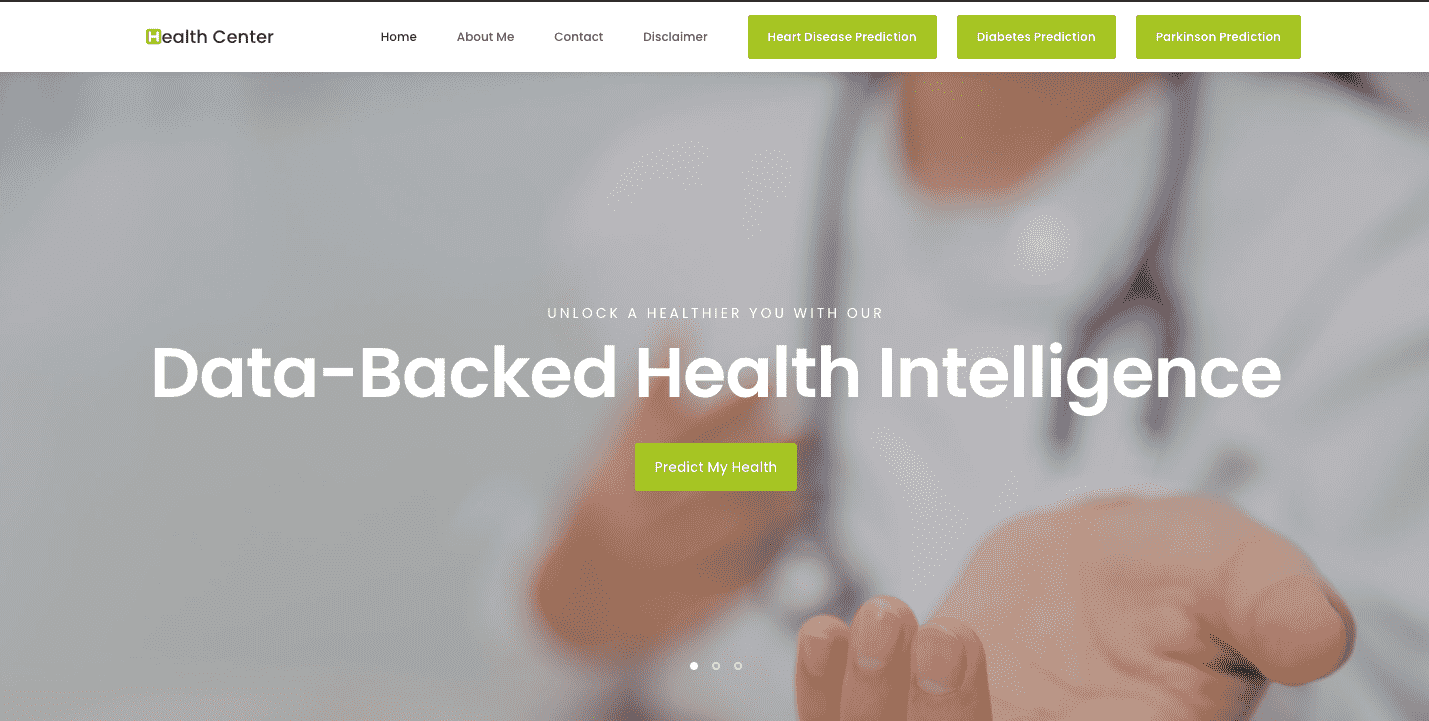
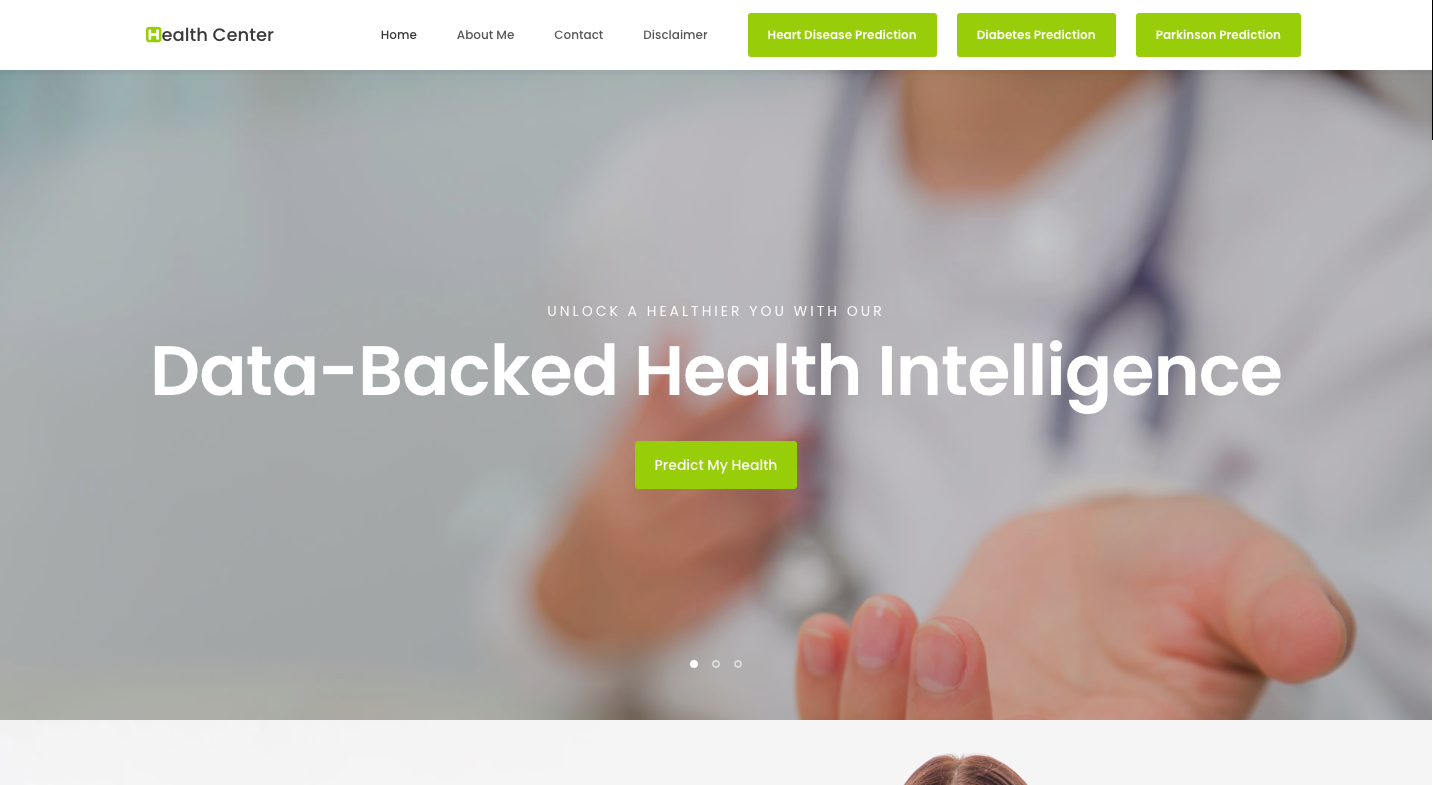
projects-updated

diff --git a/projects.html b/projects.html
@@ -4,24 +4,23 @@
     <meta charset="utf-8">
     <meta name="viewport" content="width=device-width, initial-scale=1">
     <title>W.Hamra · Projects</title>
-
     <link href="https://fonts.googleapis.com/css?family=Open+Sans:300,400" rel="stylesheet">
-    <link rel="stylesheet" href="{% static 'css/styles-merged.css'%}">
-    <link rel="stylesheet" href="{% static 'css/style.min.css' %}">
-    <link rel="stylesheet" href="{% static 'css/custom.css' %}">
+    <link rel="stylesheet" href="static/css/styles-merged.css">
+    <link rel="stylesheet" href="static/css/style.min.css">
+    <link rel="stylesheet" href="static/css/custom.css">
 
     <!--[if lt IE 9]>
-    <script src="{% static 'js/vendor/html5shiv.min.js' %}"></script>
-    <script src="{% static 'js/vendor/respond.min.js' %}"></script>
+    <script src="static/js/vendor/html5shiv.min.js"></script>
+    <script src="static/js/vendor/respond.min.js"></script>
     <![endif]-->
 
     <!--favicon section-->
 
-    <link rel="icon" href="{% static 'img/favicon/favicon.ico' %}" type="image/x-icon">
-    <link rel="apple-touch-icon" sizes="180x180" href="{% static 'img/favicon/apple-touch-icon.png' %}">
-    <link rel="icon" type="image/png" sizes="32x32" href="{% static 'img/favicon/favicon-32x32.png' %}">
-    <link rel="icon" type="image/png" sizes="16x16" href="{% static 'img/favicon/favicon-16x16.png' %}">
-    <link rel="manifest" href="{% static 'img/favicon/site.webmanifest' %}">
+    <link rel="icon" href="static/img/favicon/favicon.ico" type="image/x-icon">
+    <link rel="apple-touch-icon" sizes="180x180" href="static/img/favicon/apple-touch-icon.png">
+    <link rel="icon" type="image/png" sizes="32x32" href="static/img/favicon/favicon-32x32.png">
+    <link rel="icon" type="image/png" sizes="16x16" href="static/img/favicon/favicon-16x16.png">
+    <link rel="manifest" href="static/img/favicon/site.webmanifest">
 
 
 </head>
@@ -33,25 +32,30 @@
 
 <header role="banner" class="probootstrap-header">
     <div class="container">
-        <a href="{% url 'index' %}" class="probootstrap-logo">W<span>.Hamra</span></a>
+        <a href="index.html" class="probootstrap-logo">W<span>.Hamra</span></a>
 
         <a href="#" class="probootstrap-burger-menu visible-xs"><i>Menu</i></a>
         <div class="mobile-menu-overlay"></div>
 
         <nav role="navigation" class="probootstrap-nav hidden-xs">
             <ul class="probootstrap-main-nav">
-                <li><a href="{% url 'index' %}">Home</a></li>
-                <li class="active"><a href="{% url 'projects' %}">Projects</a></li>
-                <li><a href="{% url 'services' %}">Services</a></li>
-                <li><a href="{% url 'about' %}">About</a></li>
-                <li><a href="{% url 'contact' %}">Contact</a></li>
+                <li><a href="index.html">Home</a></li>
+                <li class="active"><a href="projects.html">Projects</a></li>
+                <li><a href="services.html">Services</a></li>
+                <li><a href="about.html">About</a></li>
+                <li><a href="contact.html">Contact</a></li>
             </ul>
             <ul class="probootstrap-right-nav hidden-xs">
-                <li><a href="https://www.linkedin.com/in/medwassimhamra/"><i class="icon-linkedin"></i></a></li>
+                <li><a href="https://www.linkedin.com/in/medwassimhamra/" target="_blank"
+                       rel="noopener noreferrer"><i class="icon-linkedin"></i></a></li>
                 <li>
-                    <a href="https://mail.google.com/mail/u/1/#inbox?compose=CllgCJlLWMTNrnlgJRQcBgjLcHFkHPRxLwsnhRkrCNgtVXfsJZhPpWqTpMmjfNfXqNMrLRCbGSV"><i
+                    <a href="https://mail.google.com/mail/u/1/#inbox?compose=CllgCJlLWMTNrnlgJRQcBgjLcHFkHPRxLwsnhRkrCNgtVXfsJZhPpWqTpMmjfNfXqNMrLRCbGSV"
+                       target="_blank"
+                       rel="noopener noreferrer"><i
                             class="icon-mail"></i></a></li>
-                <li><a href="https://github.com/Wassim-Hamra?tab=repositories"><i class="icon-github2"></i></a></li>
+                <li><a href="https://github.com/Wassim-Hamra?tab=repositories" target="_blank"
+                       rel="noopener noreferrer"><i class="icon-github2"></i></a>
+                </li>
             </ul>
             <div class="extra-text visible-xs">
                 <a href="#" class="probootstrap-burger-menu"><i>Menu</i></a>
@@ -59,11 +63,15 @@
                 <p>2094, Mustapha Khaznadar Street, Ariana, Tunisia</p>
                 <h5>Connect</h5>
                 <ul class="social-buttons">
-                    <li><a href="https://www.linkedin.com/in/medwassimhamra/"><i class="icon-linkedin"></i></a></li>
+                    <li><a href="https://www.linkedin.com/in/medwassimhamra/" target="_blank"
+                           rel="noopener noreferrer"><i class="icon-linkedin"></i></a></li>
                     <li>
-                        <a href="https://mail.google.com/mail/u/1/#inbox?compose=CllgCJlLWMTNrnlgJRQcBgjLcHFkHPRxLwsnhRkrCNgtVXfsJZhPpWqTpMmjfNfXqNMrLRCbGSV"><i
+                        <a href="https://mail.google.com/mail/u/1/#inbox?compose=CllgCJlLWMTNrnlgJRQcBgjLcHFkHPRxLwsnhRkrCNgtVXfsJZhPpWqTpMmjfNfXqNMrLRCbGSV"
+                           target="_blank"
+                           rel="noopener noreferrer"><i
                                 class="icon-mail"></i></a></li>
-                    <li><a href="https://www.facebook.com/profile.php?id=100004691568000"><i
+                    <li><a href="https://github.com/Wassim-Hamra?tab=repositories" target="_blank"
+                           rel="noopener noreferrer"><i
                             class="icon-github2"></i></a></li>
                 </ul>
             </div>
@@ -73,7 +81,7 @@
 <!-- END: header -->
 <section class="probootstrap-slider flexslider">
     <ul class="slides">
-        <li style="background-image: url({% static 'img/project.jpg' %});">
+        <li style="background-image: url('static/img/slider1.jpg')">
             <div class="container">
                 <div class="row">
                     <div class="col-md-12 text-center">
@@ -94,39 +102,41 @@
     <div class="container">
         <div class="row">
             <div class="col-md-12 section-heading probootstrap-animate">
-                <h2>My Projects</h2>
+                <h2>Selected Projects</h2>
             </div>
         </div>
         <div class="row">
-{#            <div class="col-md-4 col-sm-6 probootstrap-animate">#}
-{#                <div class="probootstrap-card">#}
-{#                    <div class="probootstrap-card-media">#}
-{#                        <a href="{% url 'under_development' %}"><img src="{% static 'img/slider_2.jpg' %}" class="img-responsive img-border"#}
-{#                                                        alt="Mohamed Wassim Hamra"></a>#}
-{#                    </div>#}
-{#                    <div class="probootstrap-card-text">#}
-{#                        <h2 class="probootstrap-card-heading mb0">Sleek Spaker</h2>#}
-{#                        <p class="category">Design</p>#}
-{#                        <p>Far far away, behind the word mountains, far from the countries Vokalia and Consonantia,#}
-{#                            there live the blind texts. Separated they live in Bookmarksgrove right at the coast of the#}
-{#                            Semantics, a large language ocean.</p>#}
-{#                        <p><a href="{% url 'under_development' %}">View details</a></p>#}
-{#                    </div>#}
-{#                </div>#}
-{#            </div>#}
             <div class="col-md-4 col-sm-6 probootstrap-animate">
                 <div class="probootstrap-card">
                     <div class="probootstrap-card-media">
-                        <a href="{% url 'under_development' %}"><img src="{% static 'img/healthcenter.png' %}"
-                                                                   class="img-responsive img-border"
-                                                                   alt="Mohamed Wassim Hamra"></a>
+                        <a href="under_development.html"><img src='static/img/slider1.jpg'
+                                                              class="img-responsive img-border"
+                                                              alt="Mohamed Wassim Hamra"></a>
+                    </div>
+                    <div class="probootstrap-card-text">
+                        <h2 class="probootstrap-card-heading mb0">Sleek Spaker</h2>
+                        <p class="category">Design</p>
+                        <p>Far far away, behind the word mountains, far from the countries Vokalia and Consonantia,
+                            there live the blind texts. Separated they live in Bookmarksgrove right at the coast of the
+                            Semantics, a large language ocean.</p>
+                        <p><a href="under_development.html">View details</a></p>
+                    </div>
+                </div>
+            </div>
+            <div class="col-md-4 col-sm-6 probootstrap-animate">
+                <div class="probootstrap-card">
+                    <div class="probootstrap-card-media">
+                        <a href="project_healthcenter.html"><img src="static/img/healthcenter.png"
+                                                              class="img-responsive img-border"
+                                                              alt="Mohamed Wassim Hamra"></a>
                     </div>
                     <div class="probootstrap-card-text">
                         <h2 class="probootstrap-card-heading mb0">Health Center</h2>
                         <p class="category">Predictive Modeling | Web Development</p>
-                        <p>An intuitive web app offering personalized health risk assessments using predictive models.
-                            Empowering users to make informed health decisions through actionable insights.</p>
-                        <p><a href="{% url 'under_development' %}">View details</a></p>
+                        <p>A web application that uses predictive models to evaluate the risk for various diseases. Users
+                            input their health information and they get personalized risk assessments and lifestyle
+                            recommendations to improve their health.</p>
+                        <p><a href="project_healthcenter.html">View details</a></p>
                     </div>
                 </div>
             </div>
@@ -134,15 +144,17 @@
             <div class="col-md-4 col-sm-6 probootstrap-animate">
                 <div class="probootstrap-card">
                     <div class="probootstrap-card-media">
-                        <a href="{% url 'project_website' %}"><img src="{% static 'img/screenshot.png' %}" class="img-responsive img-border"
-                                                        alt="Mohamed Wassim Hamra"></a>
+                        <a href="project_website.html"><img src="static/img/screenshot.png"
+                                                              class="img-responsive img-border"
+                                                              alt="Mohamed Wassim Hamra"></a>
                     </div>
                     <div class="probootstrap-card-text">
                         <h2 class="probootstrap-card-heading mb0">This Website</h2>
                         <p class="category">Web Development</p>
-                        <p>A meticulously crafted digital portfolio that provides a comprehensive overview of my
-                            professional accomplishments and personal projects. </p>
-                        <p><a href="{% url 'project_website' %}">View details</a></p>
+                        <p>A personal portfolio website showcasing my professional experience, skills,
+                            and personal projects, giving you insight into my journey and the work I’m passionate
+                            about.</p>
+                        <p><a href="project_website.html">View details</a></p>
                     </div>
                 </div>
             </div>
@@ -153,28 +165,40 @@
 </section>
 
 
+<div class="container">
+    <div class="probootstrap-cta probootstrap-animate border-bototm-none">
+        <h2 class="mb20">Explore My Work and Discover More on GitHub!</h2>
+        <p>
+            These are some of my featured projects. To explore more of my
+            work, including additional projects not listed here, feel free to visit my GitHub profile.</p>
+        <p><a href="https://github.com/Wassim-Hamra" target="_blank" rel="noopener noreferrer" role="button"
+              class="btn btn-primary"><i class="icon-github2"></i> GitHub</a></p>
+    </div>
+</div>
+
+
 <!-- END section cta -->
 
 <footer class="probootstrap-footer probootstrap-bg">
     <div class="container">
-        <div class="row mb60" >
+        <div class="row mb60">
             <div class="col-md-3">
                 <div class="probootstrap-footer-widget">
                     <h4 class="heading">About This Website</h4>
                     <p>This website was originally dynamic built with Django for the backend, but was later
                         converted into a static website to take advantage of the free hosting on GitHub Pages.</p>
-                    <p><a href="project_website">Learn more...</a></p>
+                    <p><a href="project_website.html">Learn more...</a></p>
                 </div>
             </div>
             <div class="col-md-3">
                 <div class="probootstrap-footer-widget probootstrap-link-wrap">
                     <h4 class="heading">Quick Links</h4>
                     <ul class="stack-link">
-                        <li><a href="index">Home</a></li>
-                        <li><a href="projects">Projects</a></li>
-                        <li><a href="services">Services</a></li>
-                        <li><a href="about">About</a></li>
-                        <li><a href="contact">Contact</a></li>
+                        <li><a href="index.html">Home</a></li>
+                        <li><a href="projects.html">Projects</a></li>
+                        <li><a href="services.html">Services</a></li>
+                        <li><a href="about.html">About</a></li>
+                        <li><a href="contact.html">Contact</a></li>
                     </ul>
                 </div>
             </div>
@@ -182,36 +206,37 @@
             <div class="col-md-4">
                 <div class="probootstrap-footer-widget">
                     <h4 class="heading">Contact Information</h4>
-                    <p>You can contact me via these outlets<br> Email: wassimhamraa@gmail.com<br>
-                        Phone: +216 98 786 241
-                        <br> Location: Tunis, Tunisia</p>
+                    <p>You can contact me via these outlets<br>Email:<strong> wassimhamraa@gmail.com</strong><br>
+                        Phone:<strong> +216 98 786 241</strong>
+                        <br> Location: <strong>Tunis, Tunisia</strong></p>
 
-                    <p><a href="project_website">More Info...</a></p>
+                    <p><a href="project_website.html">More Info...</a></p>
                 </div>
             </div>
-
-
 
 
         </div>
         <div class="row copyright">
             <div class="col-md-6">
                 <div class="probootstrap-footer-widget">
-                    <p>&copy; 2023 <a href="https://uicookies.com/">uiCookies:Black</a>. Designed by <a
-                            href="https://uicookies.com/">uicookies.com</a> <br> Developed by <a
-                            href="about">
-                        Wassim
-                        Hamra</a></p>
+                    <p>&copy; 2023 <a href="https://uicookies.com/" target="_blank" rel="noopener noreferrer">uiCookies:Black</a>
+                        | Developed by <a
+                                href="about.html">
+                            Wassim
+                            Hamra</a></p>
                 </div>
             </div>
             <div class="col-md-6">
                 <div class="probootstrap-footer-widget right">
                     <ul class="probootstrap-social">
-                        <li><a href="https://www.linkedin.com/in/medwassimhamra/"><i class="icon-linkedin"></i></a></li>
+                        <li><a href="https://www.linkedin.com/in/medwassimhamra/" target="_blank"
+                               rel="noopener noreferrer"><i class="icon-linkedin"></i></a></li>
                         <li>
-                            <a href="https://mail.google.com/mail/u/1/#inbox?compose=CllgCJlLWMTNrnlgJRQcBgjLcHFkHPRxLwsnhRkrCNgtVXfsJZhPpWqTpMmjfNfXqNMrLRCbGSV"><i
+                            <a href="https://mail.google.com/mail/u/1/#inbox?compose=CllgCJlLWMTNrnlgJRQcBgjLcHFkHPRxLwsnhRkrCNgtVXfsJZhPpWqTpMmjfNfXqNMrLRCbGSV"
+                               target="_blank" rel="noopener noreferrer"><i
                                     class="icon-mail"></i></a></li>
-                        <li><a href="https://github.com/Wassim-Hamra?tab=repositories"><i
+                        <li><a href="https://github.com/Wassim-Hamra?tab=repositories" target="_blank"
+                               rel="noopener noreferrer"><i
                                 class="icon-github2"></i></a></li>
                     </ul>
                 </div>
